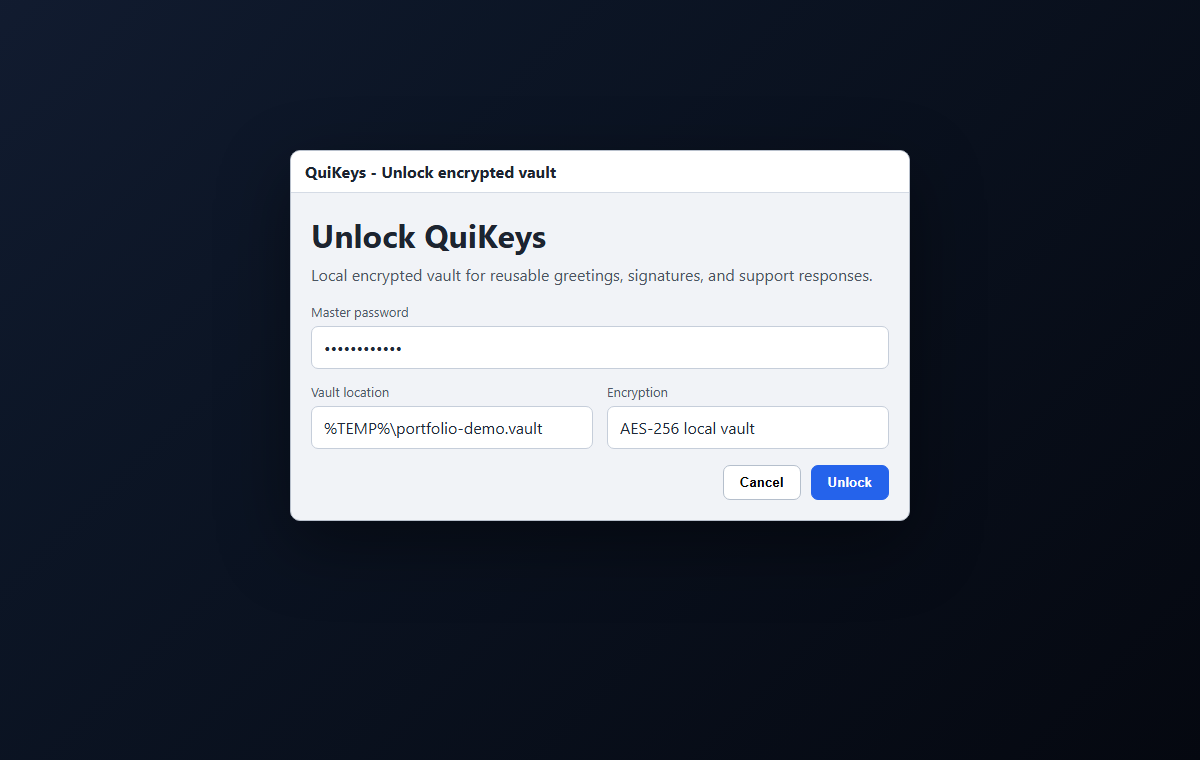
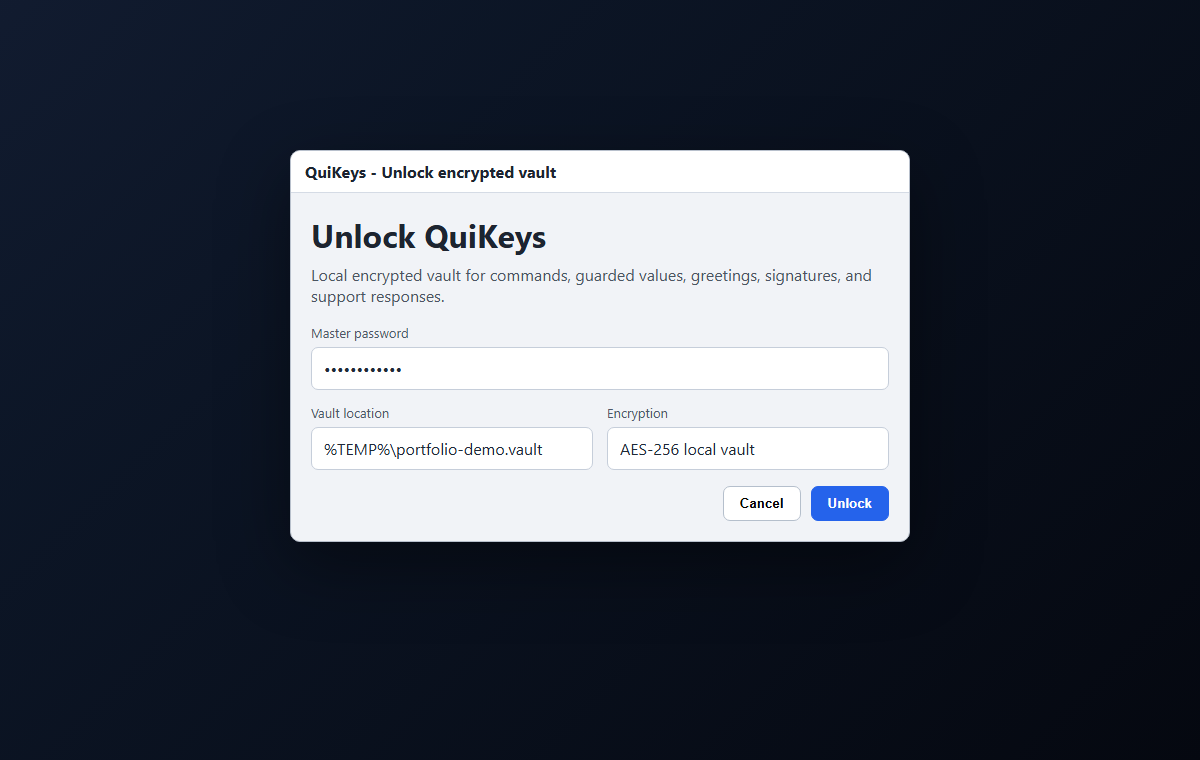
fix: blend QuiKeys portfolio examples
Restore the original secure automation examples while keeping the new reusable customer-service greeting, paragraph, and signature snippets in the QuiKeys portfolio story.

Changed region(s): [[0.2467, 0.4842, 0.7708, 0.7263], [0.2467, 0.3632, 0.4625, 0.6053], [0.4008, 0.3329, 0.7092, 0.3934]]

diff --git a/web/portfolio/app.js b/web/portfolio/app.js
@@ -1,6 +1,6 @@
 // Client-side renderer for the recruiter-facing product portfolio microsite.
 
-import { PORTFOLIO_APPS } from './data/apps.mjs?v=20260523-quikeys-service-snippets';
+import { PORTFOLIO_APPS } from './data/apps.mjs?v=20260523-quikeys-blended-snippets';
 
 function createFeatureImage(feature, app) {
   if (!feature.imagePath) {

diff --git a/web/portfolio/index.html b/web/portfolio/index.html
@@ -47,6 +47,6 @@
       <section id="portfolio-apps" class="portfolio-apps" aria-label="Application portfolio"></section>
     </main>
 
-    <script type="module" src="./app.js?v=20260523-quikeys-service-snippets"></script>
+    <script type="module" src="./app.js?v=20260523-quikeys-blended-snippets"></script>
   </body>
 </html>

diff --git a/CHANGELOG.md b/CHANGELOG.md
@@ -15,6 +15,7 @@ and this project adheres to [Semantic Versioning](https://semver.org/spec/v2.0.0
 - **Portfolio module URLs now bust GitHub Pages cache** — Added static cache-busting query strings to the portfolio app/data module URLs so public visitors receive the latest deployed showcase copy immediately.
 - **MBL2PC portfolio device label now says PC** — Simplified the mocked sender label from "Work PC" to "PC" in the portfolio copy, refreshed MBL2PC screenshots, and bumped the portfolio cache key so public visitors receive the concise label.
 - **QuiKeys portfolio now highlights reusable service snippets** — Reframed the QuiKeys showcase around standard greetings, customer-service paragraphs, follow-up text, and support signatures instead of developer command macros.
+- **QuiKeys portfolio now blends service snippets with secure automation** — Restored the original command, deploy, Docker, and masked demo-token examples while keeping reusable greetings, customer-service paragraphs, and signatures in the same showcase.
 
 ### Fixed
 - **Terminal sessions now survive Windows sleep instead of reopening as fresh shells** — Forge previously treated `PBT_APMSUSPEND` as a signal to close every live and detached PTY before the machine slept. After resume, reconnect created a new prompt because the original shell had already been destroyed. Forge now records the suspend event without tearing down PTYs, and any disconnect that happens shortly after wake receives an extended reconnect grace window so the original shell can be reattached instead of replaced.
